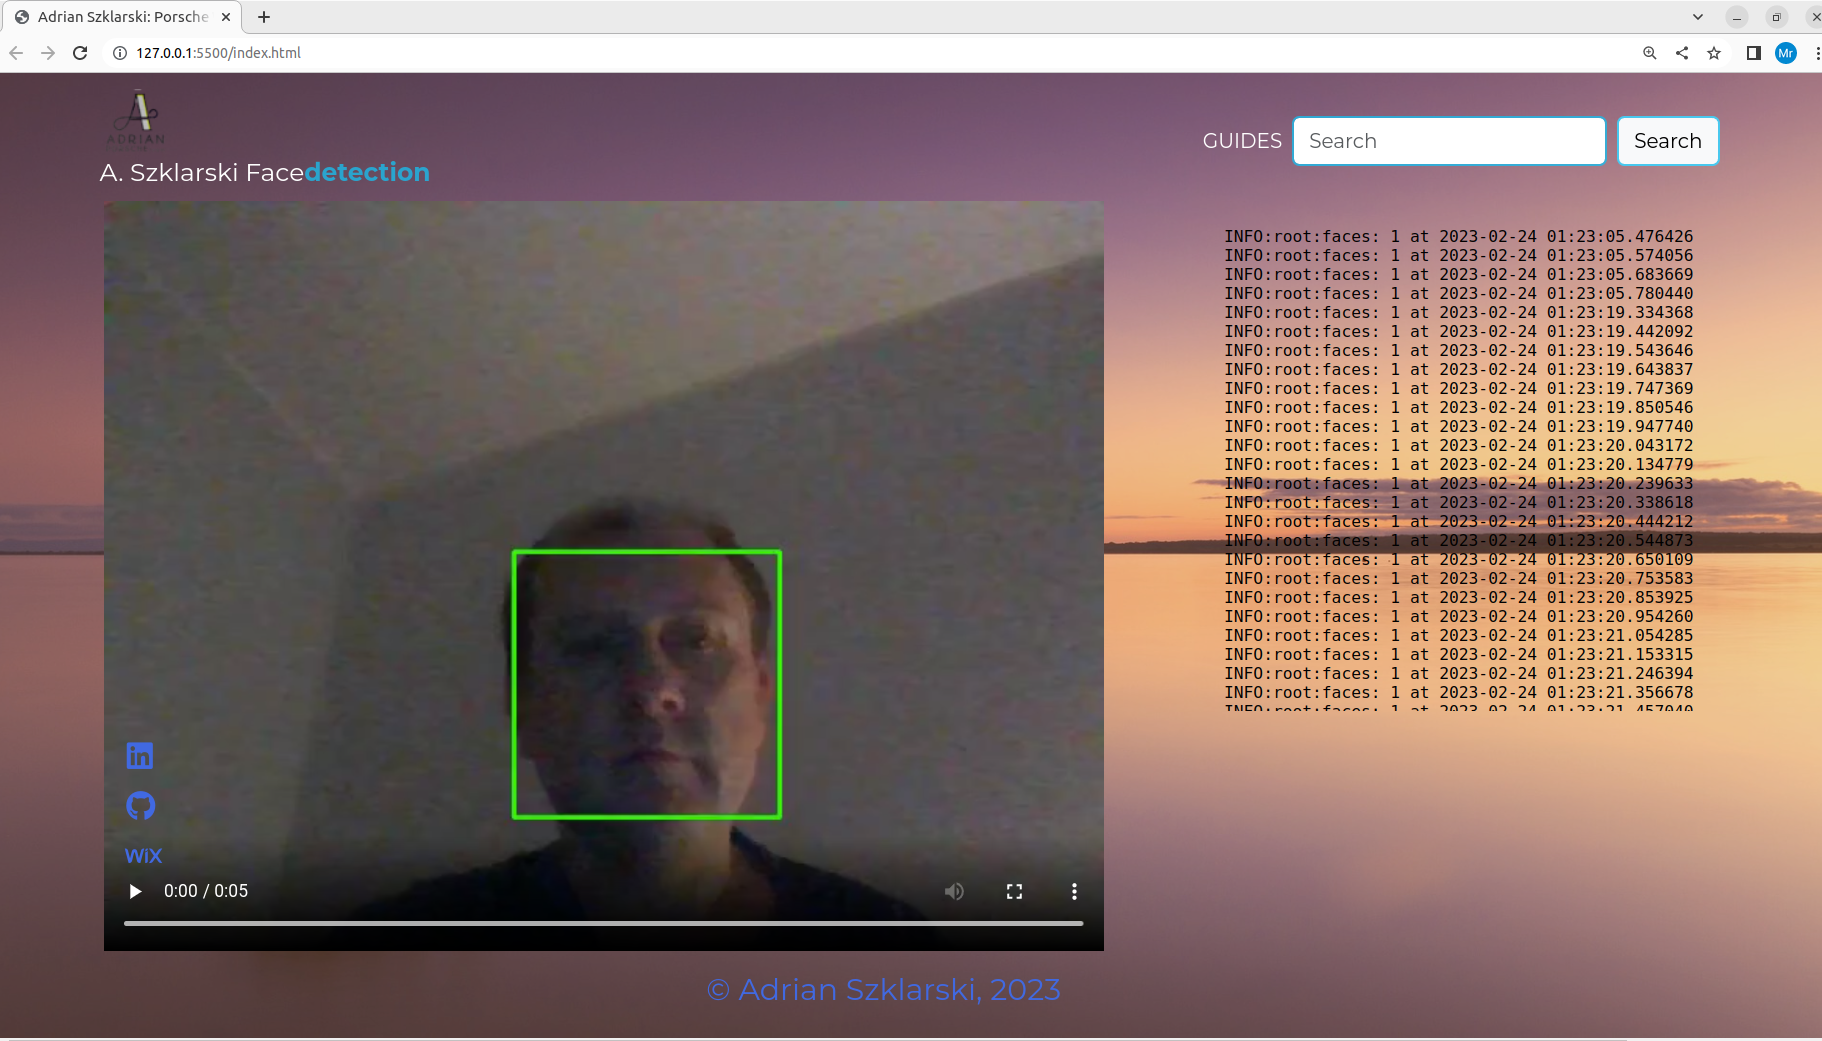
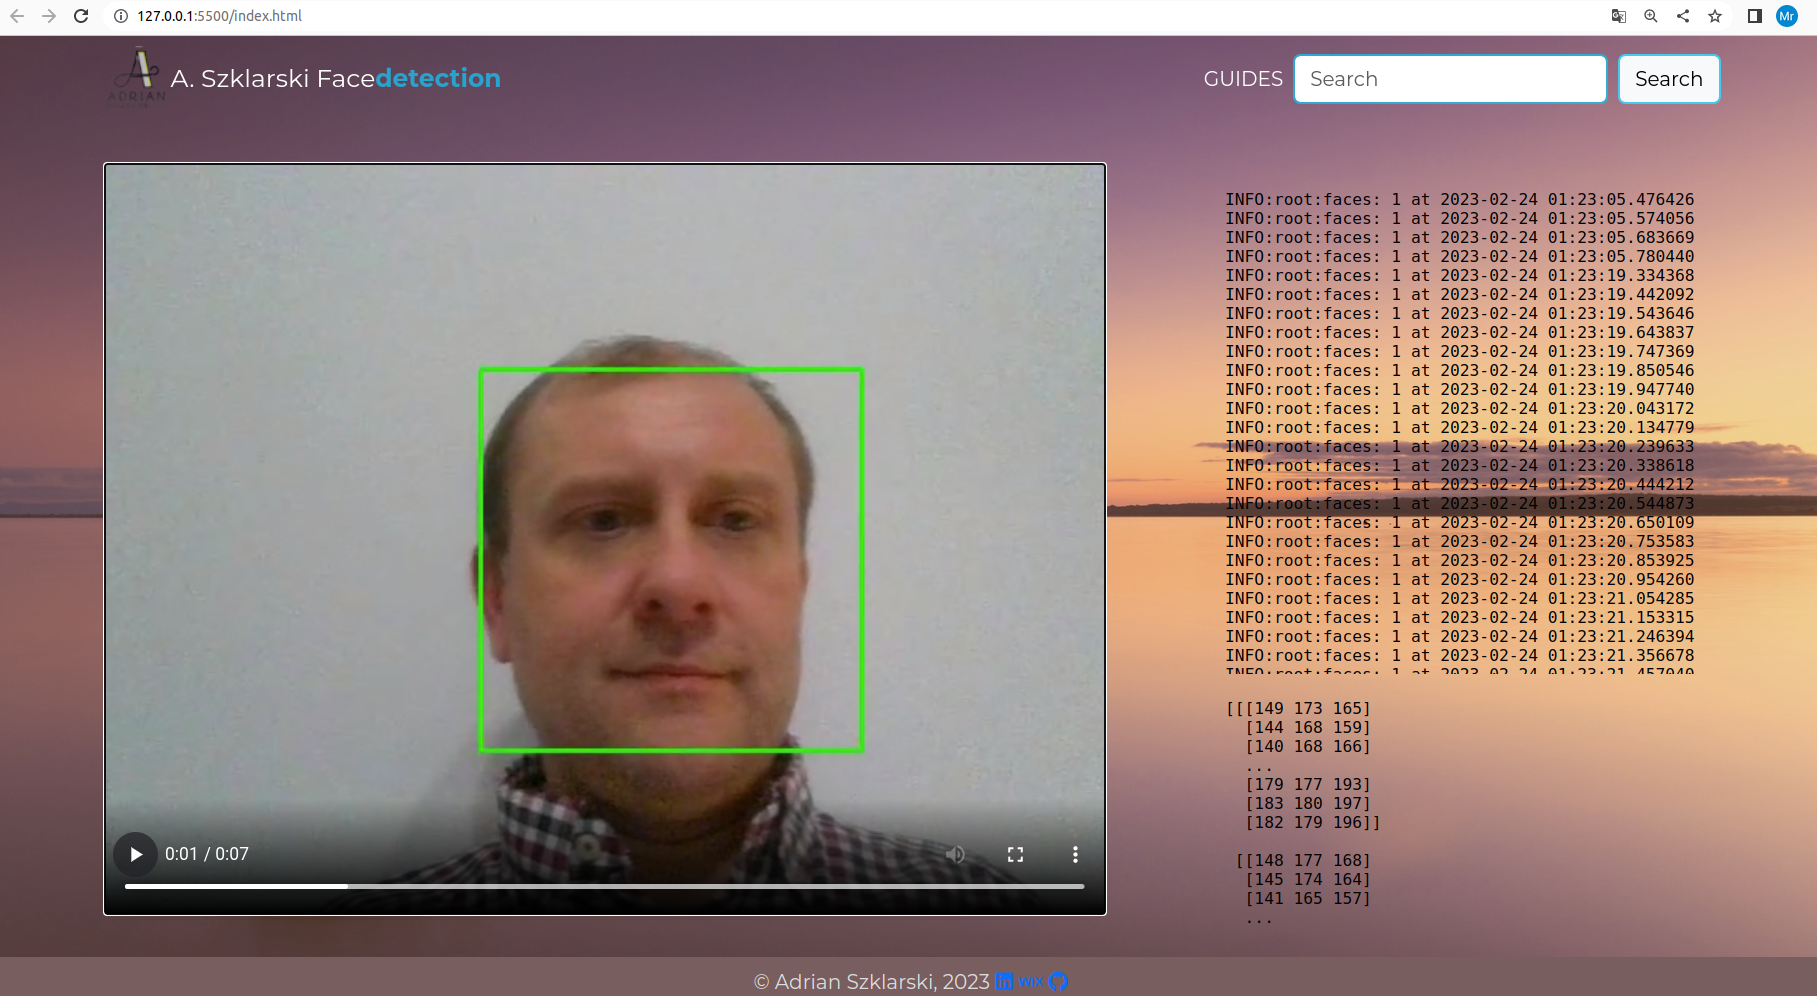
Finsihed project

diff --git a/index.html b/index.html
@@ -65,7 +65,7 @@
                     </div>
 
                     <div class="list">
-                        <p><iframe class="log2" src="save_data/xy.txt" frameborder="0" height="400"
+                        <p><iframe class="log2" src="save_data/array.txt" frameborder="0" height="400"
                                 width="95%"></iframe></p>
                     </div>
                 </div>

diff --git a/sass/script.scss b/sass/script.scss
@@ -97,7 +97,7 @@ header {
     }
 
     .log2 {
-        height: 26vh;
+        height: 25vh;
         margin-top: 87%;
         margin-left: 9%;
     }

diff --git a/css/script.css b/css/script.css
@@ -80,7 +80,7 @@ header .log {
   margin-left: 9%;
 }
 header .log2 {
-  height: 26vh;
+  height: 25vh;
   margin-top: 87%;
   margin-left: 9%;
 }

diff --git a/camera_strem.py b/camera_strem.py
@@ -7,8 +7,11 @@ import PIL.Image, PIL.ImageTk
 from datetime import datetime
 from module.mp4 import mp4
 
+CAMERA = 0
+
+
 class CameraStrem:
-    def __init__(self, root, camera=0):
+    def __init__(self, root, camera=CAMERA):
         self.root = root
         self.delay = 15
         self.video_source = camera  # commit 1
@@ -29,7 +32,6 @@ class CameraStrem:
         self.update()
         self.get_frame()
 
-
     def get_exit(self):
         webbrowser.open("http://127.0.0.1:5500/index.html")
         exit()
@@ -38,7 +40,7 @@ class CameraStrem:
         '''ret, frame = self.capture.get_frames()
         Data injection function for recording, eliminating None type
         from downloading camera data :)'''
-        link = r'/home/adrian/Pulpit/GitHub_Public/Dectenion_face/save_data/xy.txt'
+        link = r'/home/adrian/Pulpit/GitHub_Public/Dectenion_face/save_data/array.txt'
         with open(link, 'w') as f:
             while True:
                 ret, frame = self.capture.get_frames()
@@ -77,8 +79,9 @@ class CameraStrem:
             if cv2.waitKey(1) & 0xFF == ord('a'):
                 break
 
+
 class CaptureAvi:
-    def __init__(self, camera=0):
+    def __init__(self, camera=CAMERA):
         self.capture = cv2.VideoCapture(camera)  # commit 2
         if not self.capture.isOpened():
             raise ValueError("Attention, video failed to open", camera)
@@ -130,6 +133,7 @@ class CaptureAvi:
         if self.capture.isOpened():
             self.capture.release()
 
+
 #  My commits:
 
 #  no 1:
@@ -138,5 +142,3 @@ class CaptureAvi:
 than one connected. By default, 0 is your primary. if I had two cameras, my index = 1'''
 
 #  no 2: define a video capture object
-
-

diff --git a/note.py b/note.py
@@ -53,6 +53,8 @@
             break'''
 # Muszę to oprogramować !
 
+# W razie problemów CAMERA = 0 reset na -0!
+
 
 
 
